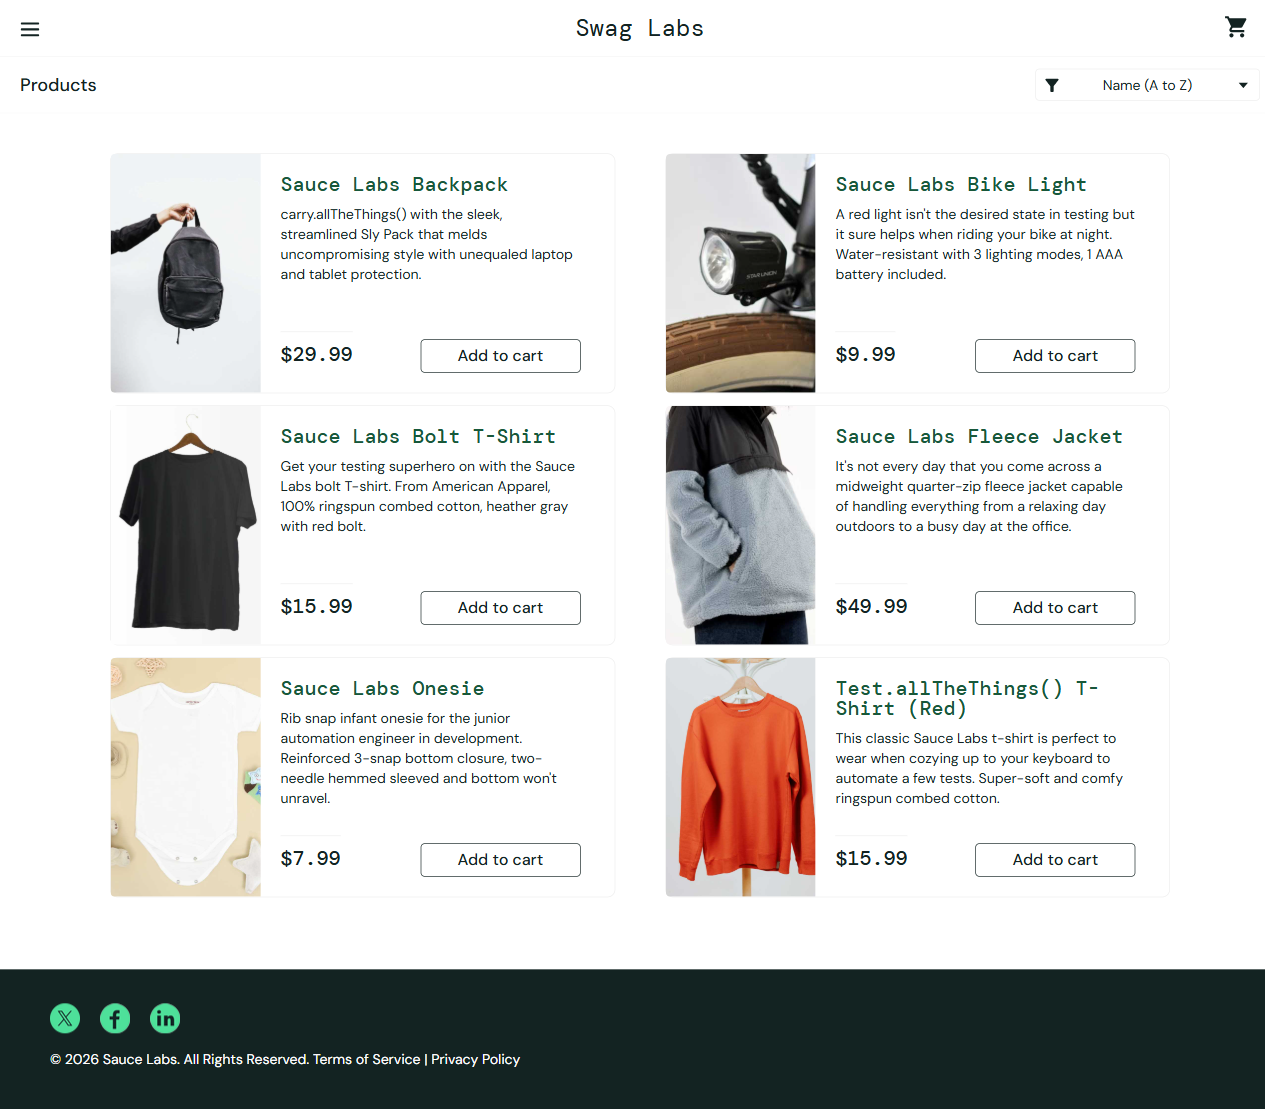
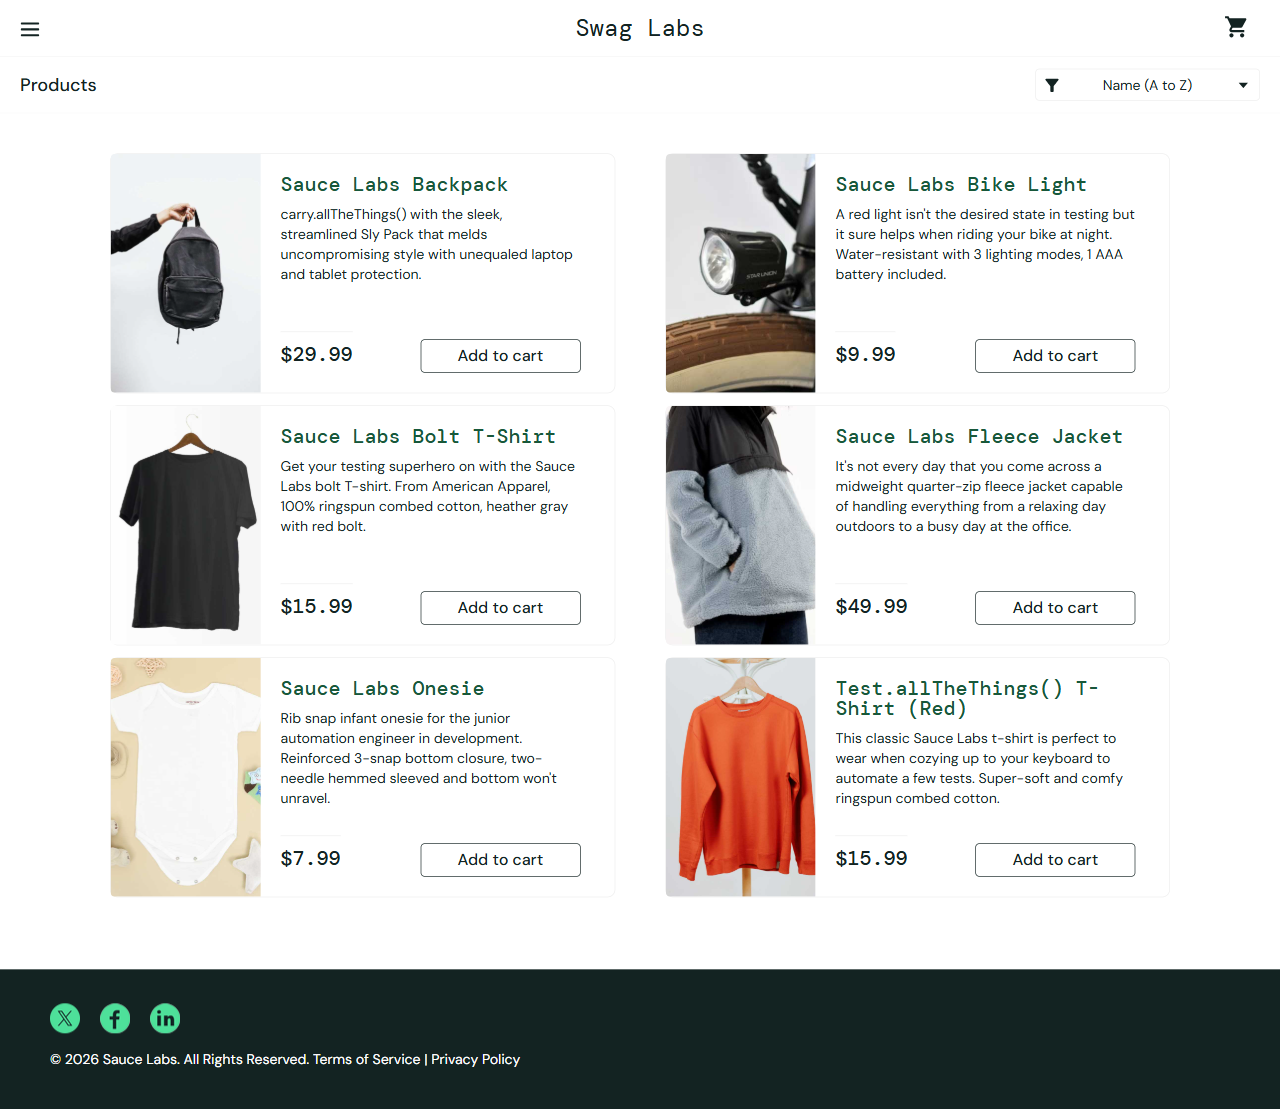
added screenshot after every step

diff --git a/tests/example.spec.ts b/tests/example.spec.ts
@@ -1,23 +1,30 @@
 import { test, expect } from '@playwright/test';
-
-test('Bhavya s first testcase', async ({ page }) => {
+import { captureScreenshot } from '../utils/utils.js';
+test('Bhavya s first testcase', async ({ page},testInfo ) => {
   await page.goto('https://www.saucedemo.com/');
+   await captureScreenshot(
+        page,
+        testInfo,
+        'Page load Successful'
+    );
 
   // Expect a title "to contain" a substring.
   await expect(page).toHaveTitle(/Swag/);
   await page.getByPlaceholder('Username').fill('standard_user');
   await page.getByPlaceholder('Password').fill('secret_sauce');
   await page.getByRole('button',{ name:'Login'}).click();
-  await page.screenshot({
-        path: 'screenshots/test1.png',
-        fullPage: true
-    });
+   await captureScreenshot(
+        page,
+        testInfo,
+        'Click successful'
+    );
   await expect(page).toHaveURL(/inventory\.html/);
   await expect(page.locator('.title')).toHaveText('Products');
-  await page.screenshot({
-        path: 'screenshots/test2.png',
-        fullPage: true
-    });
+   await captureScreenshot(
+        page,
+        testInfo,
+        'Test completely successfully'
+    );
   
 });
 

diff --git a/utils/utils.js b/utils/utils.js
@@ -1,0 +1,11 @@
+export async function captureScreenshot(page, testInfo, name) {
+
+    const screenshot = await page.screenshot({
+        fullPage: true
+    });
+
+    await testInfo.attach(name, {
+        body: screenshot,
+        contentType: 'image/png'
+    });
+}

diff --git a/playwright.config.ts b/playwright.config.ts
@@ -30,6 +30,7 @@ export default defineConfig({
 
     /* Collect trace when retrying the failed test. See https://playwright.dev/docs/trace-viewer */
     trace: 'on-first-retry',
+    screenshot: 'on',
   },
 
   /* Configure projects for major browsers */
